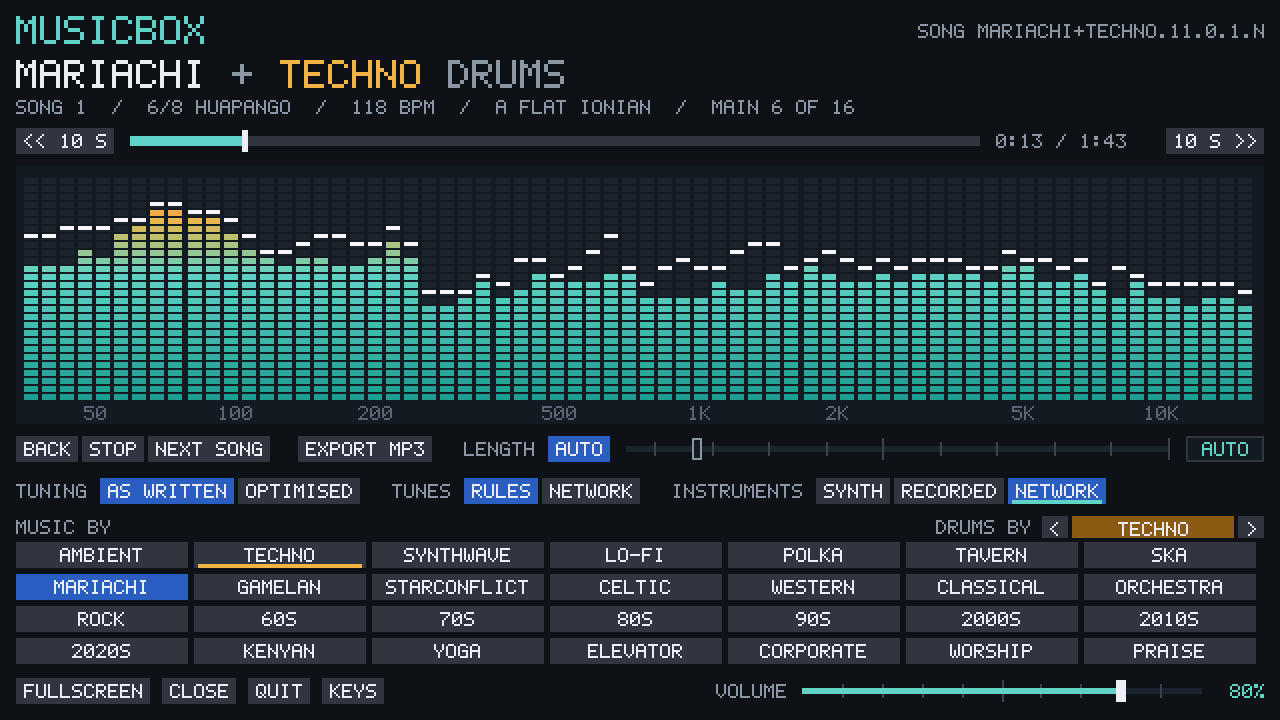
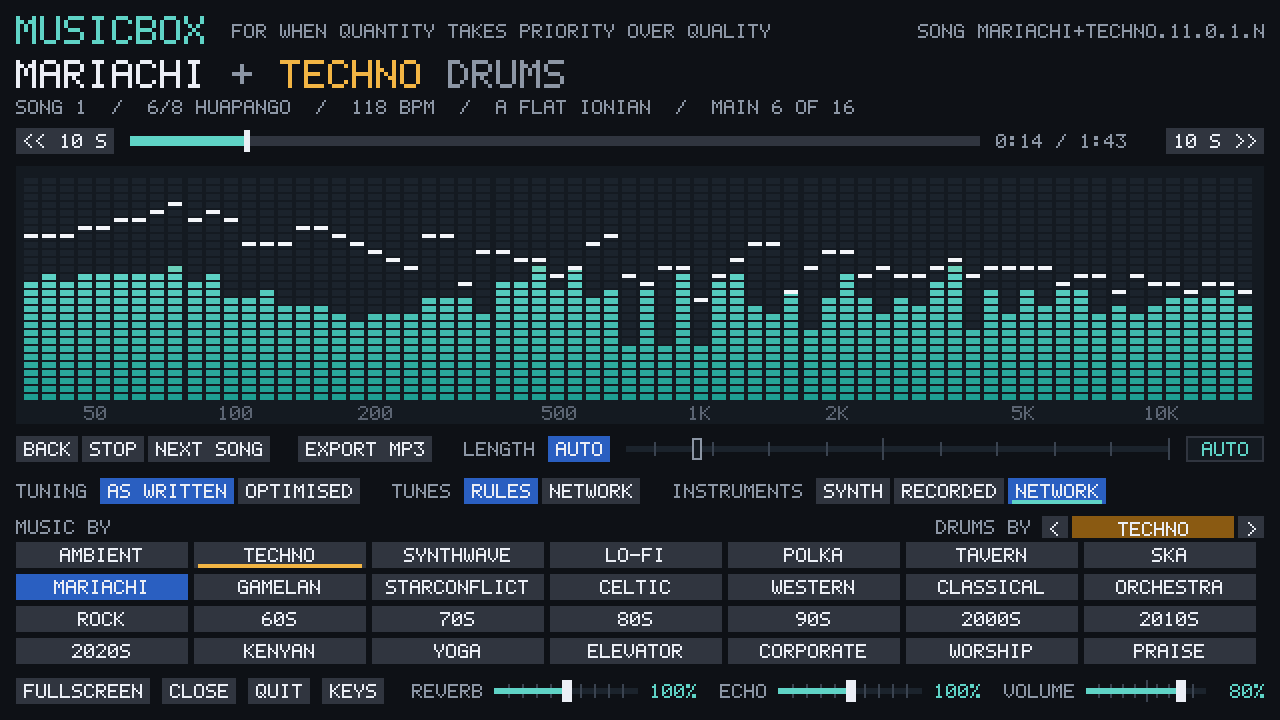
The README's pictures taken again: the window and the page with their REVERB and ECHO sliders and the tagline (same songs as before: mariachi+techno.11.0.1.n, celtic+ska.2817.0.2.180s.t)

diff --git a/README.md b/README.md
@@ -8,7 +8,7 @@ Music made up as it plays, without end, in 28 genres and any pair of them. It pl
 
 **[Play it in your browser](https://bhoult.github.io/musicbox/)**: no install; it plays recordings of real instruments, fetched as each genre needs them, or a synthesiser with nothing to fetch.
 
-[![The browser version: celtic music with ska drums, its tunes by the network and its instruments recorded; the song's id, the equalizer, the transport, the song's bar, the volume, the length, saving, the three settings and the genre selector](docs/web.png)](https://bhoult.github.io/musicbox/)
+[![The browser version: celtic music with ska drums, its tunes by the network and its instruments recorded; the song's id, the equalizer, the transport, the song's bar, the volume, the length, saving, the reverb and echo, the three settings and the genre selector](docs/web.png)](https://bhoult.github.io/musicbox/)
 
 As it comes, no AI model makes any of the sound or the music, and no song is sampled. The music comes from a composer that is ordinary code: for each genre, rules for its scales, chords, rhythms, song forms and who plays what, and a random number generator choosing among them. It is generated at random and without end by software that an AI wrote. A genre and a seed always give the same music.
 
@@ -77,7 +77,7 @@ A change waits for the next bar line, or the next beat when bars are long, and t
 
 ## The window
 
-![The window: mariachi drummed by techno, on network instruments; the equalizer, the transport, the three settings, the genre selector and the volume](docs/window.png)
+![The window: mariachi drummed by techno, on network instruments; the equalizer, the transport, the three settings, the genre selector, and the reverb, echo and volume](docs/window.png)
 
 `--gui` or G opens it. It has six parts:
 
